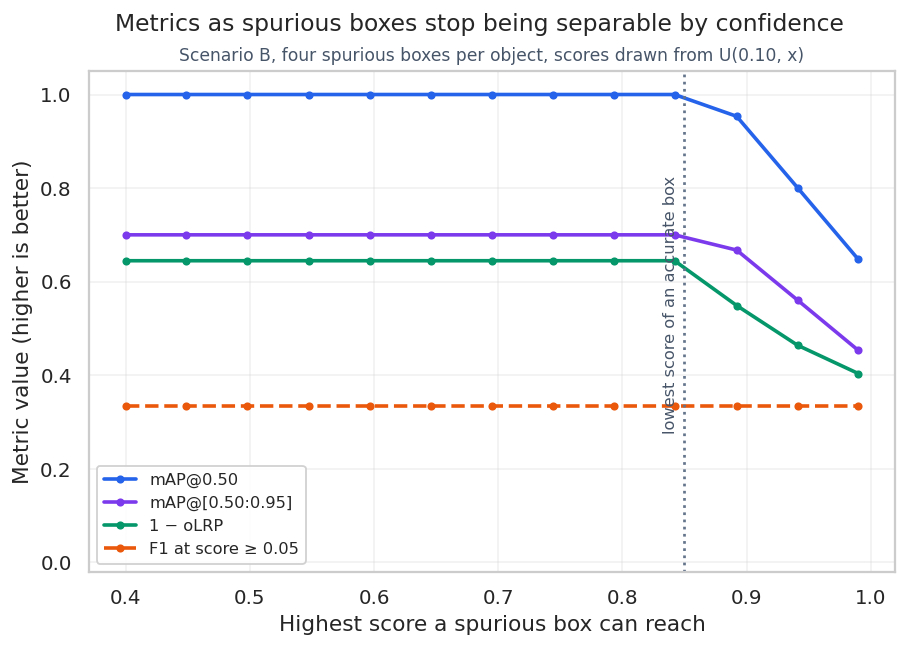
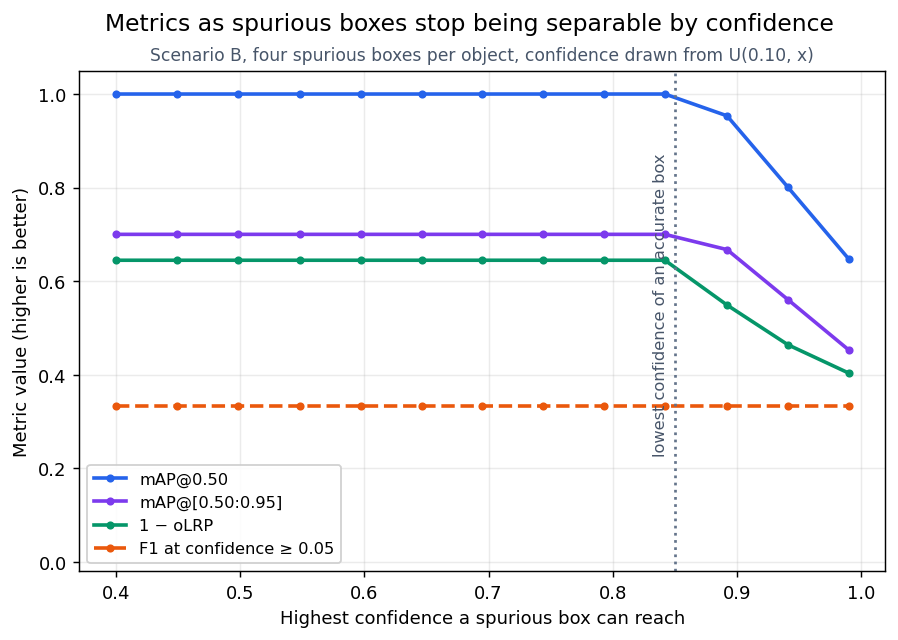
name the confidence score correctly

diff --git a/src/mapstudy/cli.py b/src/mapstudy/cli.py
@@ -121,10 +121,10 @@ SWEEPS = {
         "parameter": "hedge_max_score",
         "values": DEFAULT_HEDGE_MAX_SCORES,
         "title": "Metrics as spurious boxes stop being separable by confidence",
-        "subtitle": "Scenario B, four spurious boxes per object, scores drawn from U(0.10, x)",
-        "x_label": "Highest score a spurious box can reach",
+        "subtitle": "Scenario B, four spurious boxes per object, confidence drawn from U(0.10, x)",
+        "x_label": "Highest confidence a spurious box can reach",
         "threshold": 0.85,
-        "threshold_label": "lowest score of an accurate box",
+        "threshold_label": "lowest confidence of an accurate box",
     },
 }
 
@@ -234,10 +234,11 @@ def duplication_command(args: argparse.Namespace) -> None:
     plt.close(
         plot_duplication(
             points,
-            title="mAP has a floor that duplication cannot push through",
+            title="Metric values as near-identical boxes are added to every object",
+            # States the construction only; what it demonstrates belongs in the text.
             subtitle=(
-                f"{payload['n_objects']} objects, seed {args.seed}. Every copy draws its score from "
-                "the same distribution as the accurate box, so no threshold separates them."
+                f"{payload['n_objects']} objects, seed {args.seed}. Every copy draws its confidence "
+                "from the same distribution as the accurate box."
             ),
             output=figure,
         )

diff --git a/src/mapstudy/visualization.py b/src/mapstudy/visualization.py
@@ -22,7 +22,7 @@ METRIC_STYLES = {
     "map50": ("mAP@0.50", "#2563eb", "-"),
     "map": ("mAP@[0.50:0.95]", "#7c3aed", "-"),
     "lrp_quality": ("1 − oLRP", "#059669", "-"),
-    "f1": ("F1 at score ≥ 0.05", "#ea580c", "--"),
+    "f1": ("F1 at confidence ≥ 0.05", "#ea580c", "--"),
 }
 
 

diff --git a/README.md b/README.md
@@ -30,9 +30,9 @@ A detector nobody would deploy is given a perfect score, and a detector whose ev
 lands on its object is told it failed completely. The ordering the metric produces is
 the reverse of the one a person looking at the images would produce.
 
-**Why scenario B scores 1.000.** Each object receives one accurate box at a high
-confidence (IoU around 0.82, score in U(0.85, 0.95)) and four displaced boxes at low
-confidence (IoU at most 0.497 by construction, score in U(0.10, 0.40)). This pattern has
+**Why scenario B scores 1.000.** Each object receives one accurate box at high
+confidence (IoU around 0.82, confidence in U(0.85, 0.95)) and four displaced boxes at low
+confidence (IoU at most 0.497 by construction, confidence in U(0.10, 0.40)). This pattern has
 a name in the literature, *spatial hedging*; it is defined and cited in experiment 3.
 Average Precision ranks all detections by confidence and integrates precision against
 recall. The four spurious boxes rank below every accurate box, so they only enter the
@@ -149,8 +149,8 @@ its error, and that parameter is bisected until mAP@0.50 reaches 0.500.
 | Parameter solved for | `detect_rate` = 0.4990 | `ghost_rate` = 1.4023 | `error_rate` = 0.3457 |
 | Proportion affected | 48.3% of objects omitted | 1.40 extra boxes per object | 35.4% of boxes displaced |
 | Detections emitted | 1,837 | 8,533 | 3,552 |
-| Precision at score ≥ 0.05 | **1.000** | **0.416** | **0.646** |
-| Recall at score ≥ 0.05 | **0.517** | **1.000** | **0.646** |
+| Precision at confidence ≥ 0.05 | **1.000** | **0.416** | **0.646** |
+| Recall at confidence ≥ 0.05 | **0.517** | **1.000** | **0.646** |
 | **mAP@0.50** | **0.4999** | **0.4999** | **0.5003** |
 | **mAP@[.50:.95]** | **0.4999** | **0.4998** | **0.4972** |
 
@@ -225,7 +225,7 @@ same 3,552 objects.
 | mAP@0.50 | 1.000 | 1.000 | 1.000 | 1.000 |
 | mAP@[.50:.95] | 0.700 | 0.700 | 0.700 | 0.700 |
 | oLRP ↓ | 0.355 | 0.355 | 0.355 | 0.355 |
-| F1 at score ≥ 0.05 | 1.000 | 0.333 | 0.207 | 0.159 |
+| F1 at confidence ≥ 0.05 | 1.000 | 0.333 | 0.207 | 0.159 |
 
 Not one ranking-based metric reacts, to three decimal places, while the detector emits
 thirteen times more boxes. This confirms on COCO detection what Jena et al. report for
@@ -246,22 +246,22 @@ the measurement here agrees with the paper rather than contradicting it.
 
 ![Metrics as spurious boxes stop being separable](docs/figures/sweep_hedge-score.png)
 
-Keeping four spurious boxes per object and raising the top of their score range towards
+Keeping four spurious boxes per object and raising the top of their confidence range towards
 the accurate boxes' 0.85-0.95:
 
-| Highest score of a spurious box | 0.40 | 0.84 | **0.89** | 0.94 | 0.99 |
+| Highest confidence of a spurious box | 0.40 | 0.84 | **0.89** | 0.94 | 0.99 |
 |---|---:|---:|---:|---:|---:|
 | mAP@0.50 | 1.000 | 1.000 | **0.953** | 0.801 | 0.647 |
 | oLRP ↓ | 0.355 | 0.355 | **0.451** | 0.536 | 0.597 |
 | oLRP localisation ↓ | 0.178 | 0.178 | 0.178 | 0.178 | 0.178 |
 
-Nothing moves until the two score populations overlap, then every ranking metric degrades
+Nothing moves until the two confidence populations overlap, then every ranking metric degrades
 at once. **What these metrics measure is not whether a detector emits redundant boxes,
 but whether its confidence scores are well enough calibrated to separate them.**
 
 ## 4. mAP has a floor that duplication cannot cross
 
-![mAP saturates under duplication](docs/figures/duplication.png)
+![Metric values as near-identical boxes are added to every object](docs/figures/duplication.png)
 
 The previous experiment has an escape hatch: a reader can object that the detector is
 merely uncalibrated, and that a confidence threshold would remove the redundant boxes.
@@ -271,9 +271,9 @@ drawn from **the same distribution as the accurate box**, so no threshold separa
 | Copies added per object | 0 | 1 | 4 | 16 | 64 |
 |---|---:|---:|---:|---:|---:|
 | Detections for 3,552 objects | 3,552 | 7,104 | 17,760 | 60,384 | **230,880** |
-| Precision at score ≥ 0.05 | 1.000 | 0.500 | 0.200 | 0.071 | **0.031** |
+| Precision at confidence ≥ 0.05 | 1.000 | 0.500 | 0.200 | 0.071 | **0.031** |
 | **mAP@0.50** | 1.000 | 0.860 | 0.799 | 0.744 | **0.740** |
-| F1 at score ≥ 0.05 | 1.000 | 0.667 | 0.333 | 0.132 | **0.060** |
+| F1 at confidence ≥ 0.05 | 1.000 | 0.667 | 0.333 | 0.132 | **0.060** |
 
 **65 boxes per object, 230,880 detections for 3,552 objects, 97% of them wrong, and
 mAP@0.50 still reports 0.740.** The curve flattens after the first few copies and stops
@@ -295,7 +295,7 @@ The baseline detector's confidence scores are replaced by strictly increasing fu
 of themselves. The boxes, the labels and the order of the detections are untouched; only
 the numbers attached to them change.
 
-| Score transform | Resulting score range | mAP@0.50 | mAP@[.50:.95] | F1 at score ≥ 0.05 |
+| Confidence transform | Confidence range | mAP@0.50 | mAP@[.50:.95] | F1 at confidence ≥ 0.05 |
 |---|---|---:|---:|---:|
 | identity | [0.100, 1.000] | 0.643157 | 0.177631 | 0.772 |
 | `s³` | [0.001, 0.999] | 0.643157 | 0.177631 | 0.642 |
@@ -453,7 +453,7 @@ Experiment 4, with oLRP added:
 | **oLRP ↓** | 0.000 | 0.379 | 0.476 | 0.546 | **0.555** |
 | oLRP false positive ↓ | 0.000 | 0.245 | 0.285 | 0.305 | 0.301 |
 | **oLRP optimal threshold τ\*** | 0.211 | 0.471 | 0.763 | 0.925 | **0.981** |
-| F1 at score ≥ 0.05 | 1.000 | 0.667 | 0.333 | 0.132 | 0.060 |
+| F1 at confidence ≥ 0.05 | 1.000 | 0.667 | 0.333 | 0.132 | 0.060 |
 
 This is the clearest advantage oLRP shows as a scalar anywhere in the study. mAP degrades
 by 0.26 and stops; oLRP degrades by 0.56 and keeps moving. The reason oLRP works here and
@@ -474,7 +474,7 @@ part of oLRP that leaderboards discard.
 Experiment 5, with oLRP added. This is the place where oLRP's advantage is smallest and
 it is stated plainly:
 
-| Score transform | Score range | mAP@0.50 | oLRP ↓ | **τ\*** | F1 at ≥ 0.05 |
+| Confidence transform | Confidence range | mAP@0.50 | oLRP ↓ | **τ\*** | F1 at confidence ≥ 0.05 |
 |---|---|---:|---:|---:|---:|
 | identity | [0.100, 1.000] | 0.643157 | 0.8108 | **0.288** | 0.772 |
 | `s³` | [0.001, 0.999] | 0.643157 | 0.8108 | **0.074** | 0.642 |
@@ -653,7 +653,7 @@ docs/figures/              Figures used in this README
   bias the category distribution.
 - Experiment 1 calibrates on mAP@0.50. The three detectors also share mAP@[.50:.95] to
   within 0.003, but that is an observed consequence, not something imposed.
-- The operating point is reported at a single, arbitrary score threshold (0.05). A full
+- The operating point is reported at a single, arbitrary confidence threshold (0.05). A full
   precision-recall-versus-threshold analysis would be more informative.
 - mAP, oLRP and TIDE all rely on the same one-to-one matching between predictions and
   ground truths. In crowded scenes the matching itself can dominate the result, which is
